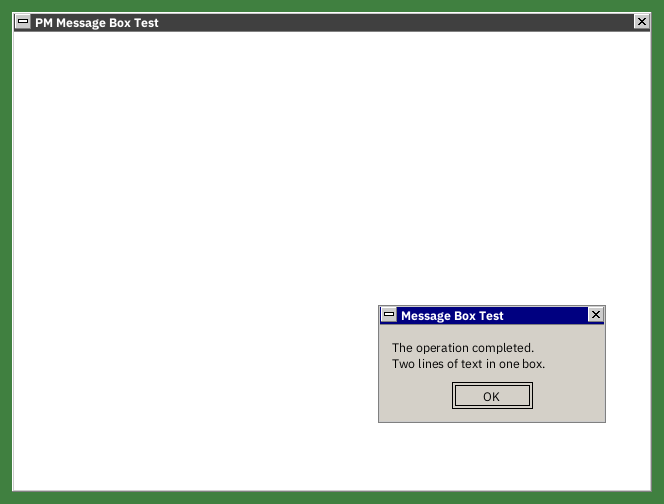
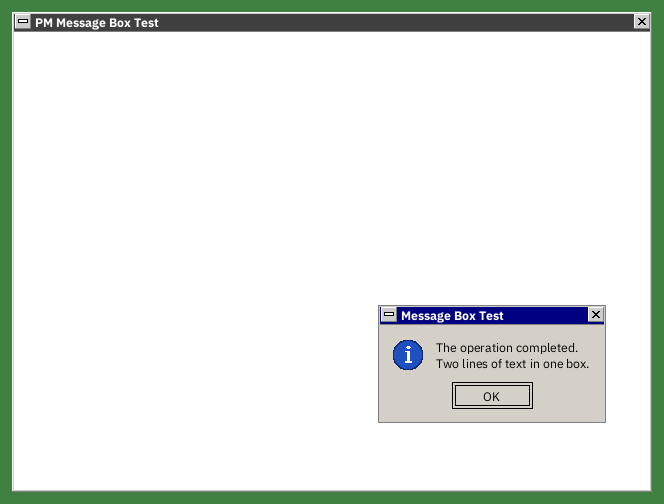
docs(readme): refresh the screenshots and capture 4OS2 in its text window
Recapture the PM screenshots from the current tree: the message box now
shows its icon, the list and dialog shots the list focus mark; add
check boxes and radio buttons and the minimized frame / hide button.
Replace the 4OS2 hero image, a photo of a host desktop, with the text
window itself captured by a scripted session (ver and dir /w). Drop the
stale menu pull-down and old 4OS2 images, and update the test count.

Claude-Session: https://claude.ai/code/session_01Ux2KKr7puFgrPeFJFk22fL

Changed region(s): [[0.5723, 0.6548, 0.8735, 0.744]]

diff --git a/README.md b/README.md
@@ -4,7 +4,7 @@
 
 Warpine is a compatibility layer that runs 32-bit OS/2 (LX format) and 16-bit OS/2 1.x (NE format) applications natively on Linux using KVM hardware virtualization. Analogous to WINE for Windows, but targeting OS/2 instead.
 
-![4OS2 running under Warpine](doc/screenshots/4os2_20260317_233729.png)
+![The 4OS2 command shell in Warpine's 80×25 text window: its version banner, then the ver command and a wide dir listing of drive C:, ending at the [c:\\] prompt](doc/screenshots/4os2.png)
 
 <!-- screenshots:begin -->
 ## Screenshots
@@ -15,23 +15,23 @@ Warpine is a compatibility layer that runs 32-bit OS/2 (LX format) and 16-bit OS
 |---|---|
 | ![PM Font Test window showing sans, bold, monospace and italic serif lines followed by Japanese, Chinese and Korean lines, each underlined in red](doc/screenshots/pm_font_test.png) | ![GPI shapes test window: a blue circle, a filled green ellipse and a red pie wedge, eight boxes filled with different hatch and dot patterns, four dark red lines of increasing width, and a list of passed checks](doc/screenshots/pm_shapes_test.png) |
 | **Typography.** Presentation Manager text is drawn in the embedded IBM Plex families: fonts chosen with `GpiCreateLogFont` (face, bold, italic, size) and CJK text in four DBCS codepages. The red rules are the widths reported by `GpiQueryTextBox`. | **Arcs, patterns and line widths.** `GpiFullArc` circles and ellipses (`GpiSetArcParams`), a `GpiPartialArc` wedge, the `PATSYM_*` area patterns and lines 1, 2, 4 and 8 pels wide (`GpiSetLineWidth`). The text lists the sample's own checks, read back with `GpiQueryPel`: 29 of 29 pass. |
-| ![PM Built-in Controls Test window with a static label, a push button, an entry field reading ">>initial textHello, Wörld!", a scroll bar, an empty list box and a multi-line field showing "Line one" and "three" with a caret after "three"](doc/screenshots/pm_controls_typing.png) | ![PM List Test window with three list boxes: Alpha, Charlie and Delta highlighted in the first, Bravo and Delta in the second, Echo in the third; below them a multi-line field whose sentence wraps onto a second line](doc/screenshots/pm_list_test.png) |
-| **Built-in controls and typing.** Static text, push button, entry field, scroll bar, list box and multi-line field. The entry field was clicked and typed into (`Hello, Wörld!` at the end, then *Home* and `>>` at the start); in the multi-line field, Enter after "Line one" and `three` started a new line. | **List selection and word wrap.** Driven by clicks and keys: a multiple-selection list (`LS_MULTIPLESEL`, two clicks plus Down and Space), an extended-selection list (`LS_EXTENDEDSEL`, a click, Shift+click and Ctrl+click) and a single-selection list where a double-click sent `LN_ENTER`. The multi-line field below wraps its text at word boundaries (`MLS_WORDWRAP`). |
-| ![PM Menu/Dialog Test window with the File menu open, listing About..., a separator and Exit](doc/screenshots/pm_menu_pulldown.png) | ![A "Your name and colour" dialog over an inactive main window: the Name field reads Warp, the Colour list box has Green selected, and the OK button has a dark default outline next to Cancel](doc/screenshots/pm_dialog_keyboard.png) |
-| **Menus.** A menu bar loaded from the program's `MENU` resource, with the *File* pull-down open after a click. | **Dialogs from the keyboard.** Ctrl+D, from the window's accelerator table, opens a modal dialog built from a `DLGTEMPLATE` resource. `Warp` was typed into the entry field that had the focus, then Tab and Down twice picked *Green*; Enter would press the default button *OK*. |
-| ![A "Message Box Test" message box with the text "The operation completed." and "Two lines of text in one box." on two lines and an OK button with a default outline, over the inactive PM Message Box Test window](doc/screenshots/pm_msgbox.png) | |
-| **Message boxes.** `WinMessageBox` is a modal PM dialog: the text wraps at word boundaries, the buttons come from the `MB_*` style, and only the owner window is disabled while it is open — its timers and repaints keep running. Keys and clicks answered the three boxes before this one. | |
+| ![PM Built-in Controls Test window with a static label, a push button, an entry field reading ">>initial textHello, Wörld!", a scroll bar, an empty list box and a multi-line field showing "Line one" and "three" with a caret after "three"](doc/screenshots/pm_controls_typing.png) | ![PM List Test window with three list boxes: Alpha, Charlie and Delta highlighted in the first, Bravo and Delta in the second, Echo in the third with a dashed focus mark; below them a multi-line field whose sentence wraps onto a second line](doc/screenshots/pm_list_test.png) |
+| **Built-in controls and typing.** Static text, push button, entry field, scroll bar, list box and multi-line field. The entry field was clicked and typed into (`Hello, Wörld!` at the end, then *Home* and `>>` at the start); in the multi-line field, Enter after "Line one" and `three` started a new line. | **List selection and word wrap.** Driven by clicks and keys: a multiple-selection list (`LS_MULTIPLESEL`, two clicks plus Down and Space), an extended-selection list (`LS_EXTENDEDSEL`, a click, Shift+click and Ctrl+click) and a single-selection list where a double-click sent `LN_ENTER`; the focused list marks its cursor item with a dashed rectangle. The multi-line field below wraps its text at word boundaries (`MLS_WORDWRAP`). |
+| ![A "Buttons" dialog: Bold unchecked, Italic indeterminate and Underline ticked; radio buttons Left, Centre and Right with Right selected and outlined by a dashed focus mark; Small selected, a ticked Shadow check box, an Apply button drawn pressed and an OK button with a dark default outline](doc/screenshots/pm_buttons.png) | ![A "Your name and colour" dialog over an inactive main window: the Name field reads Warp, the Colour list box has Green selected with a dashed focus mark, and the OK button has a dark default outline next to Cancel](doc/screenshots/pm_dialog_keyboard.png) |
+| **Check boxes and radio buttons.** A dialog driven by Space, Tab, the arrow keys, a mnemonic and a click: an unchecked, an indeterminate (`BS_AUTO3STATE`) and a ticked check box, two radio groups, and *Apply* highlighted with `BM_SETHILITE`, so it is drawn pressed. | **Dialogs from the keyboard.** Ctrl+D, from the window's accelerator table, opens a modal dialog built from a `DLGTEMPLATE` resource. `Warp` was typed into the entry field that had the focus, then Tab and Down twice picked *Green*; Enter would press the default button *OK*. |
+| ![A "Message Box Test" message box with a blue information icon left of the text "The operation completed." and "Two lines of text in one box.", and an OK button with a default outline, over the inactive PM Message Box Test window](doc/screenshots/pm_msgbox.png) | ![The desktop with the PM Min/Max Test frame minimized to a small title bar at the bottom-left, an active "Hide button" frame whose title bar has hide, maximize and close buttons, and an inactive "No buttons" frame with only a close button](doc/screenshots/pm_minmax.png) |
+| **Message boxes.** `WinMessageBox` is a modal PM dialog: an icon for the `MB_INFORMATION` style, text wrapped at word boundaries, buttons from the `MB_*` style; only the owner window is disabled while it is open, and its timers and repaints keep running. Keys and clicks answered the three boxes before this one. | **Minimize, maximize and hide.** The main frame was maximized and restored with title-bar double clicks, then minimized with Alt+F9: it became a title bar in the icon area at the bottom-left, and the next frame, created with `FCF_HIDEMAX`, took over as the active window. |
 
 ### Work in progress
 
-- **Text controls** — editing, selection, the clipboard, word wrap, multi-select lists and a blinking caret work, keys typed ahead reach the window that has the focus when the program reads them, and the input-method window follows the caret; the pointer does not yet turn into an I-beam over text fields.
-- **Dialogs, menus and windows** — Tab, arrow-key groups, mnemonics, check boxes and radio buttons, message-box icons and Help, minimize / maximize / restore / hide and Alt+F4/F5/F9/F10 work; keyboard move and size (Alt+F7/F8), the system menu, F10 for the menu bar and menus inside dialogs are missing.
+- **Text controls and pointers** — editing, selection, the clipboard, word wrap, multi-select lists and a blinking caret work, keys typed ahead reach the window that has the focus when the program reads them, the input-method window follows the caret, and programs can set system and resource pointers; the pointer does not yet turn into an I-beam over text fields or a sizing arrow over frame borders.
+- **Dialogs, menus and windows** — Tab, arrow-key groups, mnemonics, check boxes and radio buttons, message-box icons and Help, minimize / maximize / restore / hide and Alt+F4/F5/F9/F10 work; keyboard move and size (Alt+F7/F8), the system menu, F10 for the menu bar, menus inside dialogs and owner-drawn buttons (`BS_USERBUTTON`) are missing.
 - **More GPI** — boxes, lines, arcs, patterns, line widths, text, bitmaps and blits work; paths and areas (`GpiBeginPath`, `GpiBeginArea`), rounded box corners, palettes, coordinate transforms and printing are not implemented.
 - **Codepages in PM** — window text, typed characters, GPI text and the CJK face of control, title and menu text follow the message queue's codepage (`WinSetCp`), including 1004; menu templates with codepage 0 still use the process codepage.
 - **Games and video** — DIVE (direct framebuffer blitting) and OpenGL are not implemented yet.
 - **Advanced controls** — containers, notebooks, drag and drop and printing are not started.
 
-_Screenshots in this section captured from commit `18377a8` on 2026-11-17._
+_Screenshots in this section captured from uncommitted changes on top of `0c8a619` on 2026-11-17._
 <!-- screenshots:end -->
 
 ## Key Features
@@ -259,7 +259,7 @@ gdb -ex 'target remote :1234'                      # Attach with GDB
 
 ### 10. Run tests and lint
 ```bash
-cargo test                        # 980 unit tests (no KVM required)
+cargo test                        # 981 unit tests (no KVM required)
 cargo test --test integration     # 38 end-to-end tests (requires /dev/kvm)
 cargo clippy --all-targets -- -D warnings  # Lint, test code included — must pass with zero warnings
 ```
